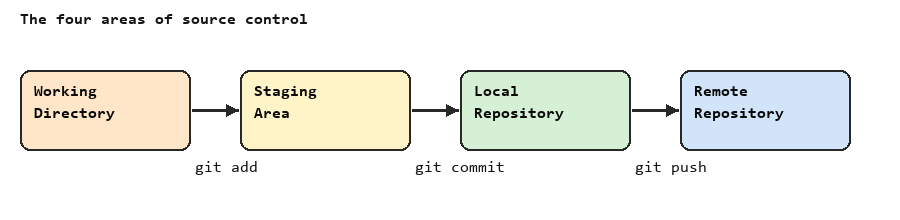
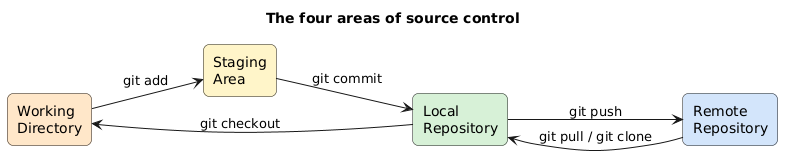
Draw the four areas of source control as a PlantUML diagram

diff --git a/README.md b/README.md
@@ -29,7 +29,7 @@ This repository therefore holds documentation only:
 - `src/` and `tests/` - not used on this day (no programming).
 
 The screenshots are terminal sessions rendered from real `git` commands run in a
-throwaway repository (the "Story" example from the lecture), plus two diagrams. They are
+throwaway repository (the "Story" example from the lecture), plus two PlantUML diagrams. They are
 not frames from the course video, which is the instructor's copyrighted material.
 
 ## 🪜 Lecture steps
@@ -86,7 +86,7 @@ the owner of the original repository merges it.
 ![Four areas](docs/images/08-four-areas.png)
 ![Fork and pull request](docs/images/07-fork-pull-request.png)
 
-The sequence diagram is PlantUML; the source is [fork-pull-request.puml](docs/diagrams/fork-pull-request.puml).
+Both diagrams are PlantUML; the sources are [four-areas.puml](docs/diagrams/four-areas.puml) and [fork-pull-request.puml](docs/diagrams/fork-pull-request.puml).
 
 ## 📋 Requirements
 
